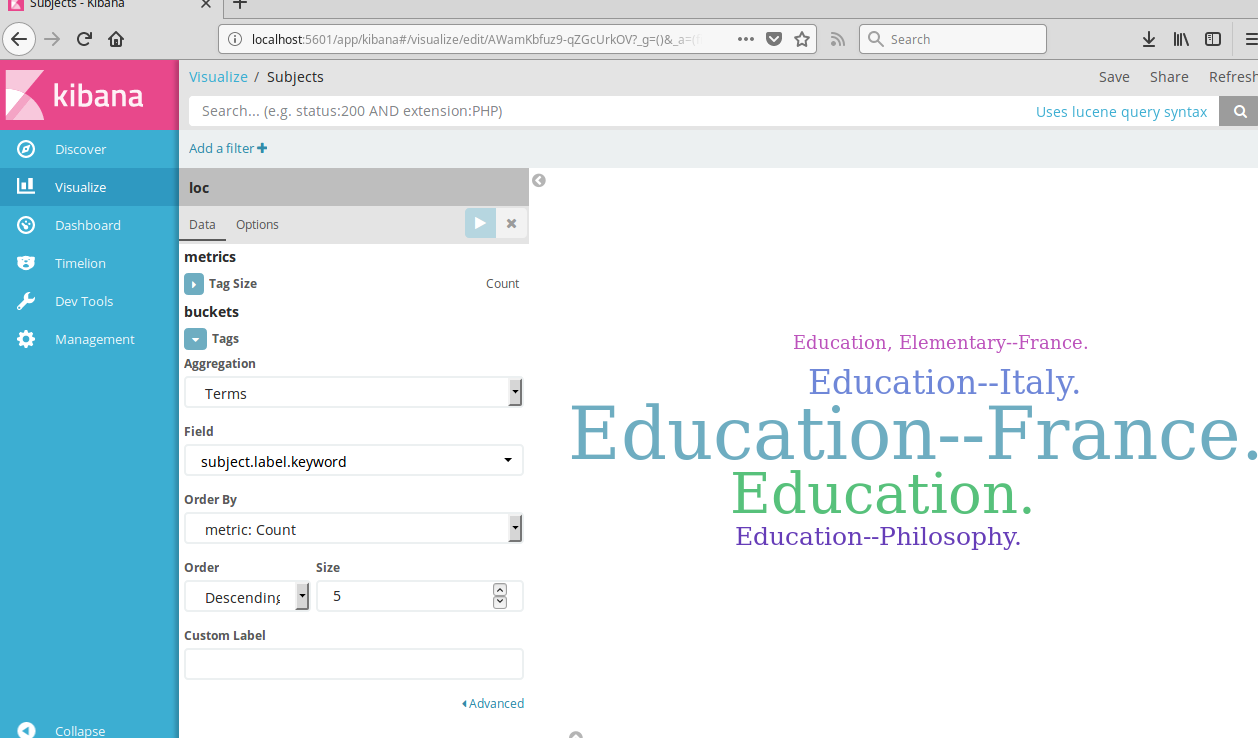
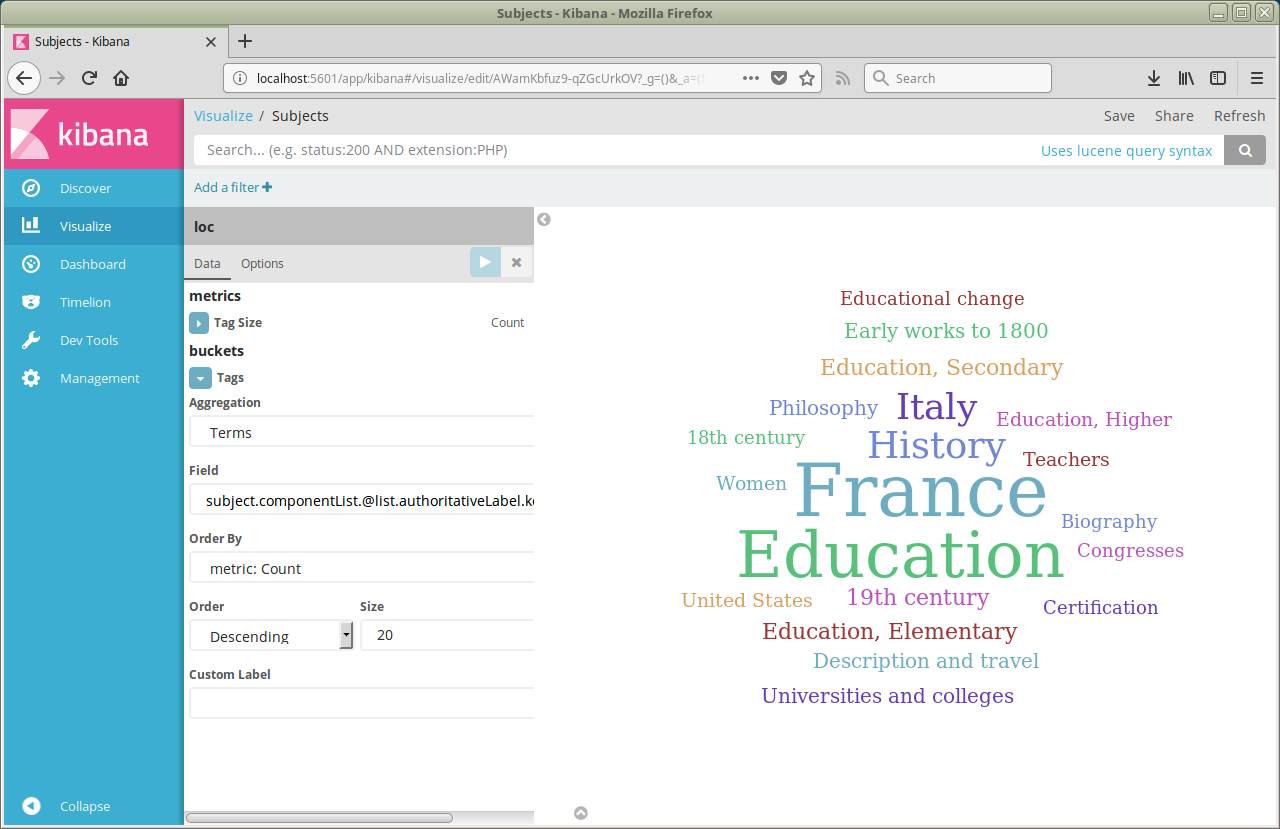
Update tag cloud visualization sample
See https://github.com/hbz/swib18-workshop/issues/5

diff --git a/index.html b/index.html
@@ -1286,7 +1286,7 @@ field:term
 
 					<section>
 						<h2>Exercise 21: Tag cloud</h2>
-						<p>Create a tag cloud visualization for the<br/> <code>'subject.label'</code> field</p>
+						<p>Create a tag cloud visualization for <code>'subject.componentList.@list.authoritativeLabel'</code></p>
 						<p><small>(Kibana will display an additional <code>'keyword'</code> suffix)</small></p>
 					</section>
 
